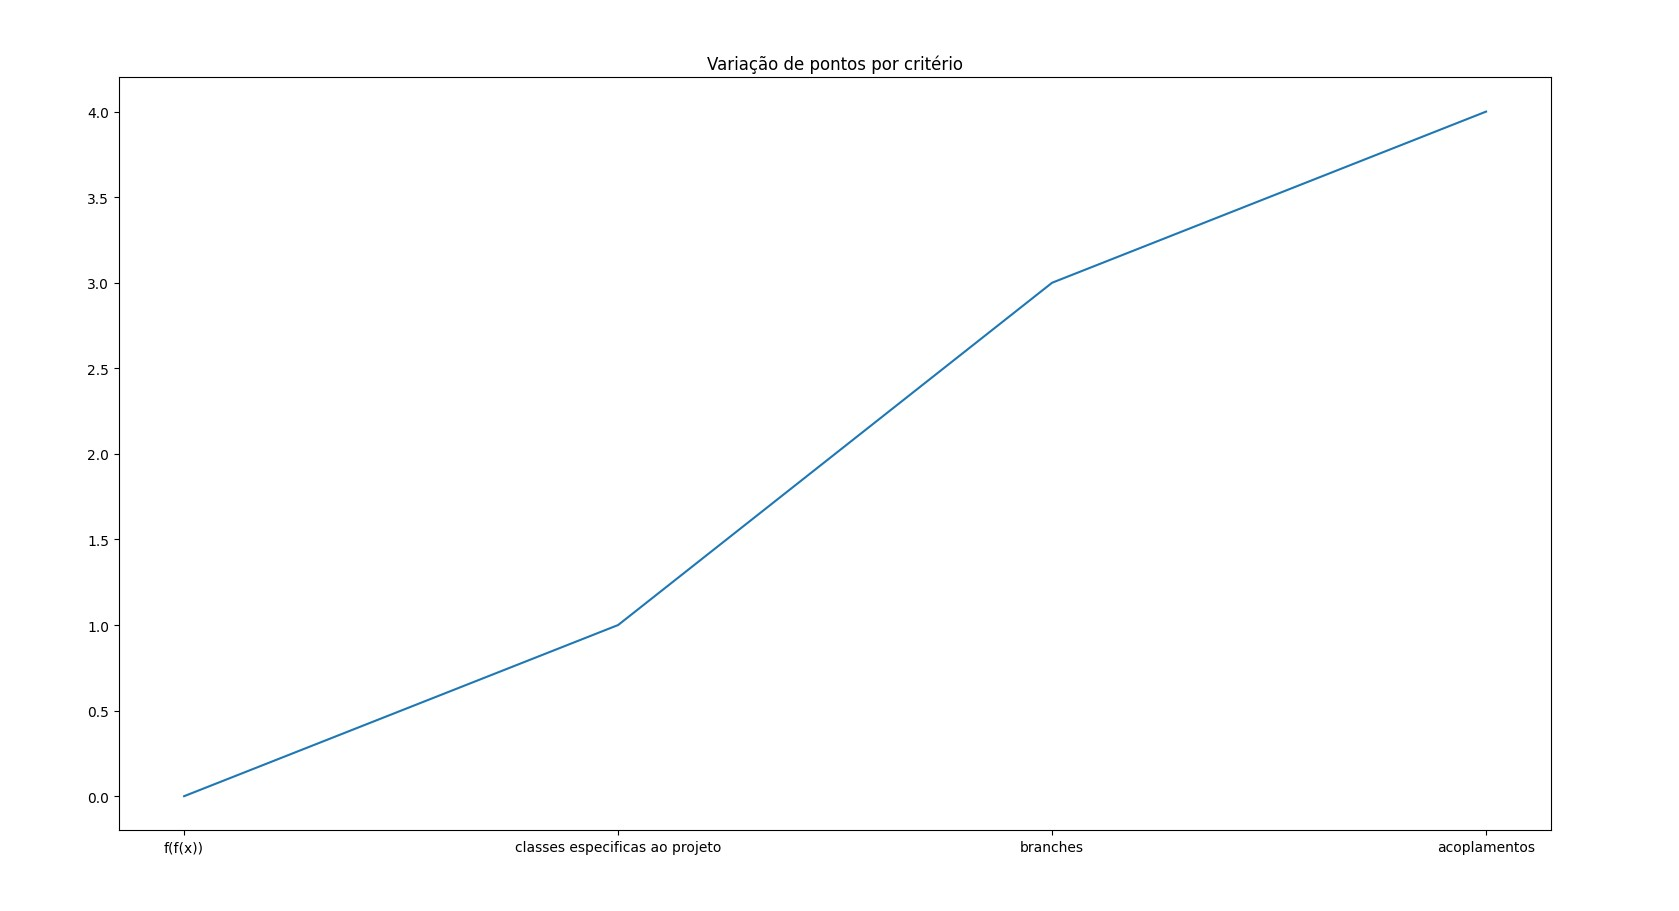
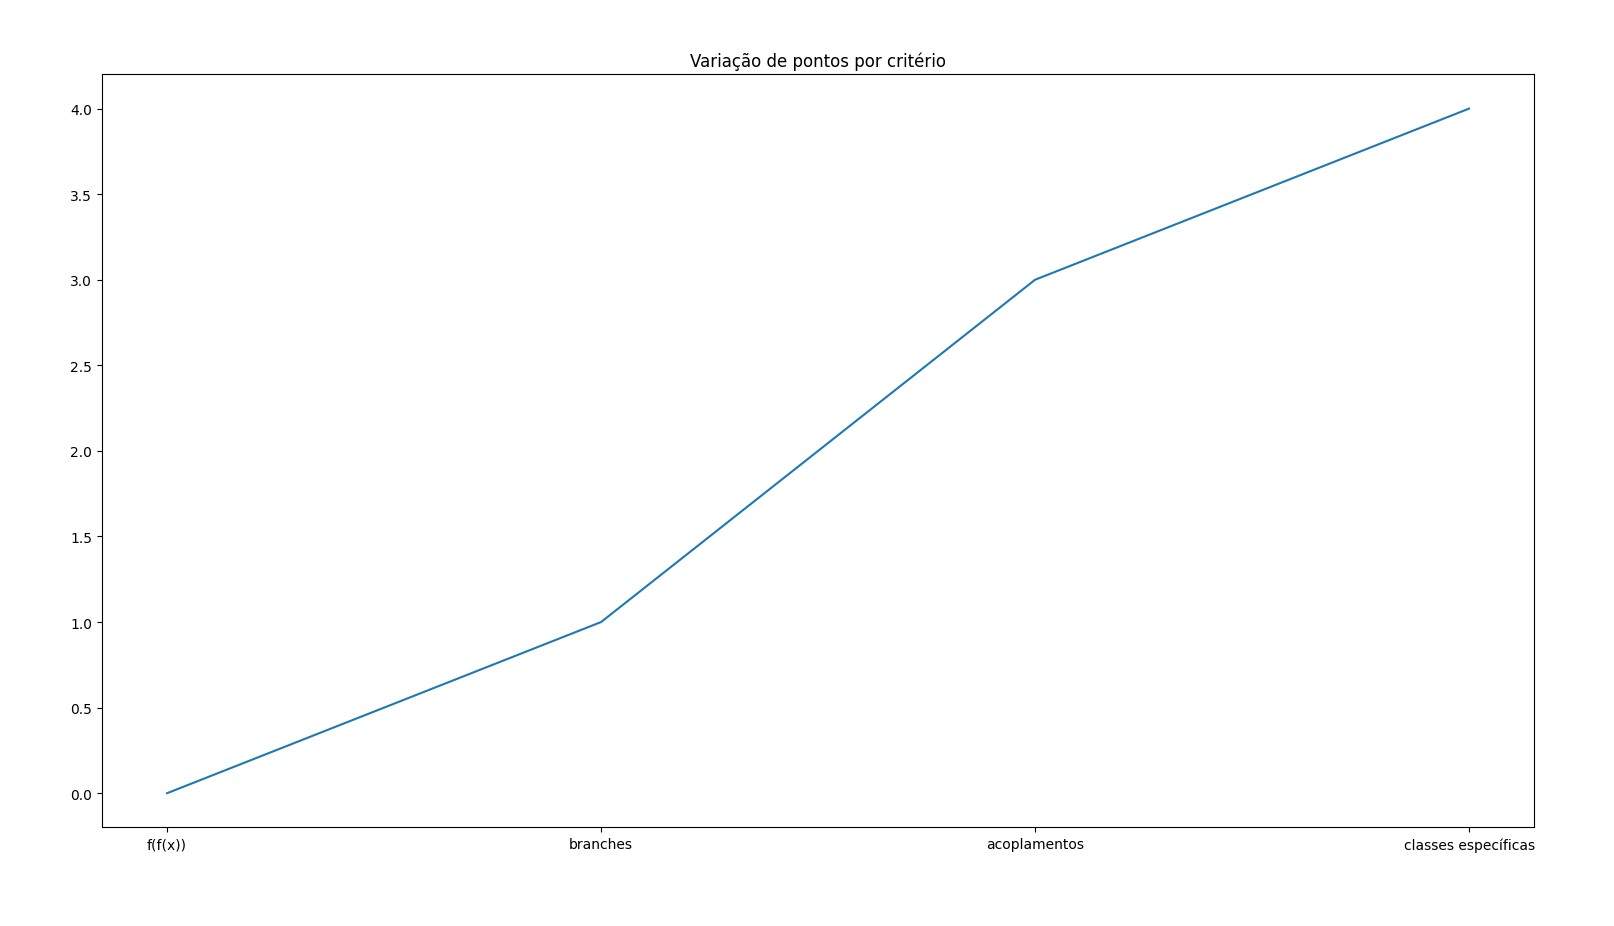
fix: novo ajuste no gráfico

diff --git a/contadorcomplexidade/contador_complexidade.py b/contadorcomplexidade/contador_complexidade.py
@@ -87,18 +87,35 @@ print(f"Número de acoplamentos: {acoplamentos}\n")
 # gera gráfico de distribuição por critério de complexidade
 
 lista_pontos = [n_funcoes_como_parametro, len(pontos_classes_criadas_especificamente_no_projeto) - acoplamentos, pontos_complexidade_intrinseca[0], acoplamentos]
+
+lista_pontos_registro = []
+lista_pontos_registro = lista_pontos[:]
+
 lista_pontos.sort()
+
+lista_labels = []
+
+# varia labels nos gráficos
+
+for z in range(0,len(lista_pontos)):
+    index = lista_pontos_registro.index(lista_pontos[z])
+    if index == 0: lista_labels.append('f(f(x))')
+    elif index == 1: lista_labels.append('classes específicas')
+    elif index == 2: lista_labels.append('branches')
+    elif index == 3: lista_labels.append('acoplamentos')
+
+
 
 # gráfico 1
 
-plt.plot(['f(f(x))', 'classes especificas ao projeto', 'branches', 'acoplamentos'], [lista_pontos[0], lista_pontos[1], lista_pontos[2], lista_pontos[3]])
+plt.plot([lista_labels[0],lista_labels[1] ,lista_labels[2] , lista_labels[3]], [lista_pontos[0], lista_pontos[1], lista_pontos[2], lista_pontos[3]])
 plt.title("Variação de pontos por critério")
 plt.show()
 
 
 # gráfico 2
 
-labels = 'f(f(x))', 'classes específicas do projeto', 'branches', 'acoplamentos'
+labels = lista_labels[0],lista_labels[1] ,lista_labels[2] , lista_labels[3]
 sizes = [lista_pontos[0], lista_pontos[1], lista_pontos[2], lista_pontos[3]]
 explode = (0.12, 0.12, 0.12, 0.12)  
 
